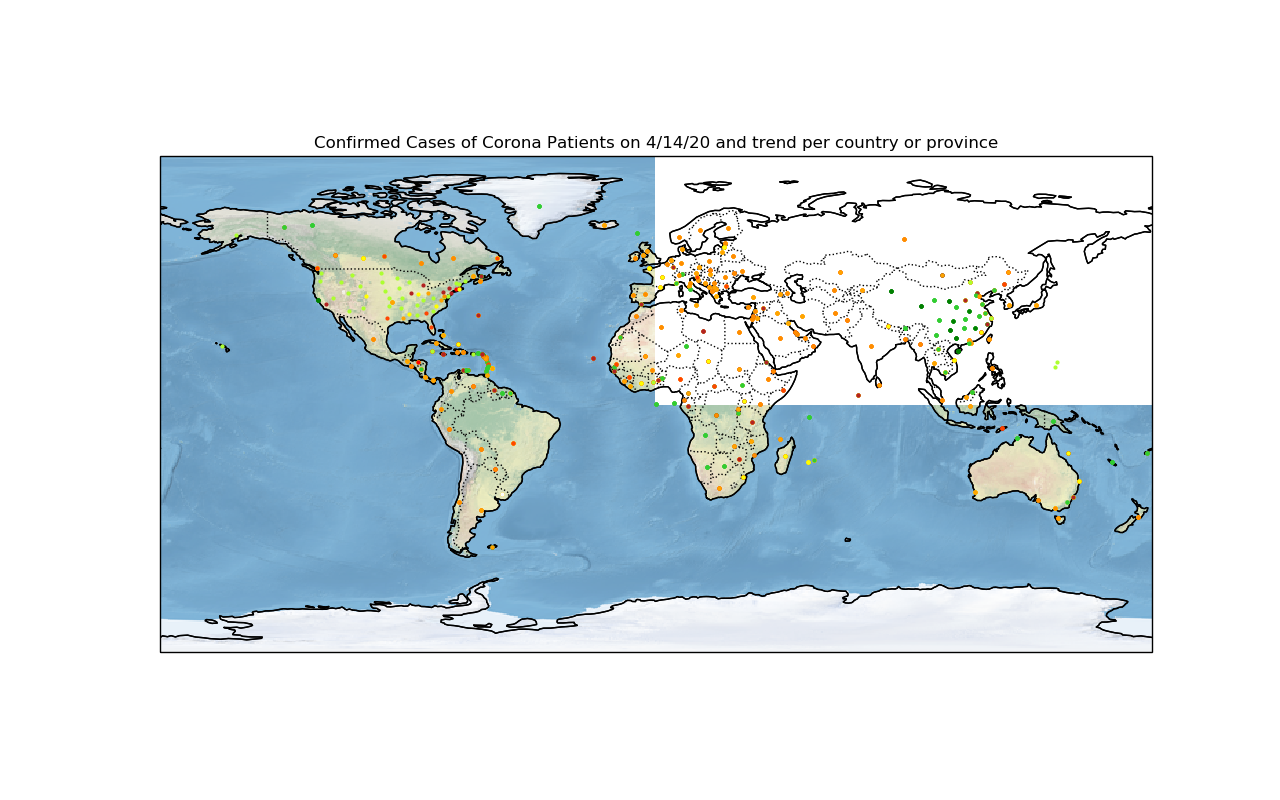
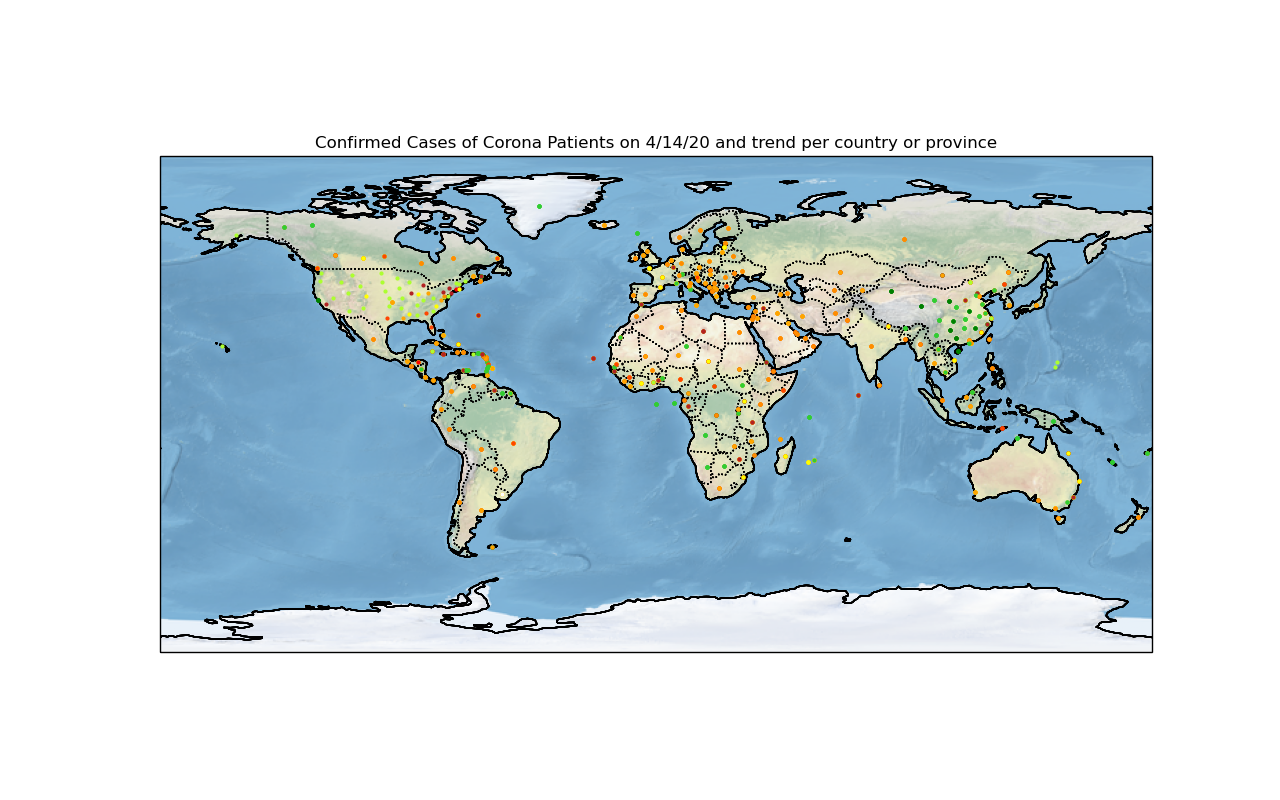
Colorbar added

diff --git a/Covid_WorldMap.py b/Covid_WorldMap.py
@@ -6,6 +6,7 @@ import matplotlib.pyplot as plt
 import matplotlib.cm as cm
 import matplotlib.image as mpimg
 import matplotlib.colors as colors
+import matplotlib.colorbar as mcb
 import matplotlib.animation as animation
 from matplotlib.colors import ListedColormap
 import numpy as np
@@ -21,7 +22,7 @@ from datetime import date
 import urllib.request
 from matplotlib.widgets import Slider, Button, RadioButtons
 import cartopy.feature as cfeature
-import cv2
+#import ffmpeg
 import imageio
 pd.set_option("display.max_rows", None, "display.max_columns", None)
 #Find a solution for 11/12th of April for moving average
@@ -337,15 +338,11 @@ for state in state_list:
     df_world_threedayaverage.at[state, '4/13/20'] = 0
 
 corona_maps_list = []
-fig = plt.figure(num="Corona Map", figsize=(12.8, 8))
-ax = plt.axes(projection=ccrs.PlateCarree())
-ax.add_feature(cfeature.LAND)
-ax.add_feature(cfeature.OCEAN)
-ax.add_feature(cfeature.COASTLINE)
-ax.add_feature(cfeature.BORDERS, linestyle=':')
-ax.coastlines()
-ax.set_global()
-ax.stock_img()
+
+bounds = (0,0.33,0.67,1,1.33,1.67,2)
+cmap = colors.ListedColormap(['greenyellow','yellow','orange','darkorange', 'orangered','red'])
+norm = colors.BoundaryNorm(bounds, cmap.N)
+cmap.set_over('firebrick')
 
 date_list_test = ('4/10/20','4/11/20','4/12/20','4/13/20','4/14/20','4/15/20')
 #def corona_map_single_plot(date_map):
@@ -357,6 +354,17 @@ for date_map in date_list_test:
     threedayaverage_map = df_world_threedayaverage[date_map]
     newly_infected_map = df_world_new_cases[date_map]
     new_infection_rate_map = df_world_change_cases[date_map]
+
+    fig = plt.figure(num="Corona Map", figsize=(12.8, 8))
+
+    ax = plt.axes(projection=ccrs.PlateCarree())
+    ax.add_feature(cfeature.LAND)
+    ax.add_feature(cfeature.OCEAN)
+    ax.add_feature(cfeature.COASTLINE)
+    ax.add_feature(cfeature.BORDERS, linestyle=':')
+    ax.coastlines()
+    ax.set_global()
+    ax.stock_img()
 
     ax.set_title("Confirmed Cases of Corona Patients on {} and trend per country or province".format(date_map))
 
@@ -401,23 +409,34 @@ for date_map in date_list_test:
             plt.plot(df_world_threedayaverage.at[location, 'Lon'], df_world_threedayaverage.at[location, 'Lat'],
                      color=marker_color, marker='o', markersize=marker_size, transform=ccrs.PlateCarree())
 
-    #plt.show(block=False)
-    #plt.pause(0.5)
-    #plt.close()
+    #colourbar = mcb.ColorbarBase(ax=ax, cmap=cmap, boundaries=bounds)
+    #colourbar.set_label('Infection Rate')
+    fig.colorbar(cm.ScalarMappable(norm=norm, cmap=cmap),ax=ax, extend = 'max', extendfrac='auto')
 
     #plt.savefig("/Users/evaammann/Desktop/Corona_Maps/CoronaMap_{}".format(date_map_index),dpi=300)
-    plt.savefig("CoronaMap_{}".format(date_map_index), dpi=100)
-    print("Image Saved for {}".format(date_map))
-    corona_map_png = mpimg.imread("CoronaMap_{}.png".format(date_map_index))
-    corona_map_imshow = plt.imshow(corona_map_png, animated = True)
-    corona_maps_list.append(corona_map_imshow)
+    #plt.savefig("CoronaMap_{}".format(date_map_index), dpi=100)
+    #print("Image Saved for {}".format(date_map))
+    #corona_map_png = mpimg.imread("CoronaMap_{}.png".format(date_map_index))
+    #corona_map_imshow = plt.imshow(corona_map_png, animated = True)
+    #corona_maps_list.append([corona_map_imshow])
     #plt.show()
 
+    plt.show(block=False)
+    plt.pause(0.5)
+    plt.close()
 
-print(corona_maps_list)
-print("Start the Animation")
-anim = animation.ArtistAnimation(fig=fig, artists=corona_maps_list,interval=50, repeat_delay=1000)
-plt.show()
+
+#print(corona_maps_list)
+#print("Start the Animation")
+#FFWriter = animation.FFMpegWriter(fps=20)
+
+#Writer = animation.writers['ffmpeg']
+#writer = Writer(fps=15, metadata=dict(artist='Me'), bitrate=1800)
+#fig_anim = plt.figure(num="Corona Map", figsize=(12.8, 8))
+#anim = animation.ArtistAnimation(fig=fig_anim, artists=corona_maps_list)
+#plt.show()
+#anim.save('Corona Map Video.mp4',writer=writer)
+
 
 def corona_map(date_map):
     lat = df_world_threedayaverage['Lat']
